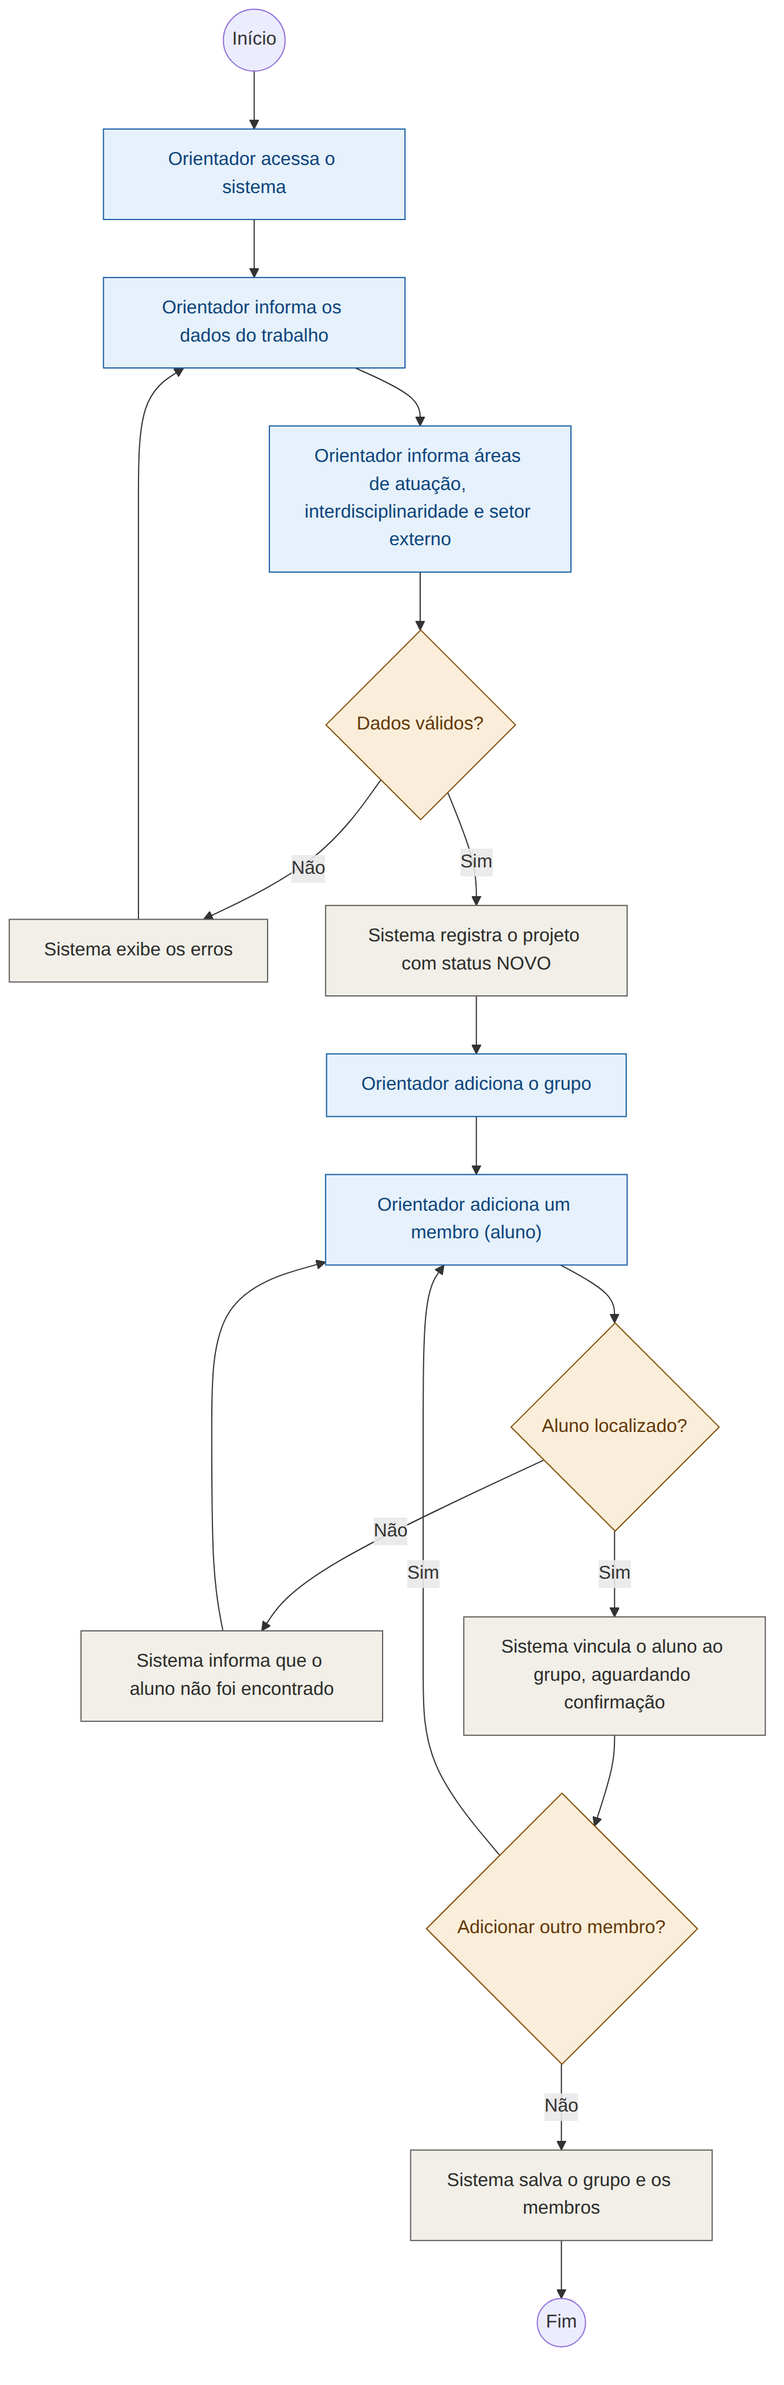
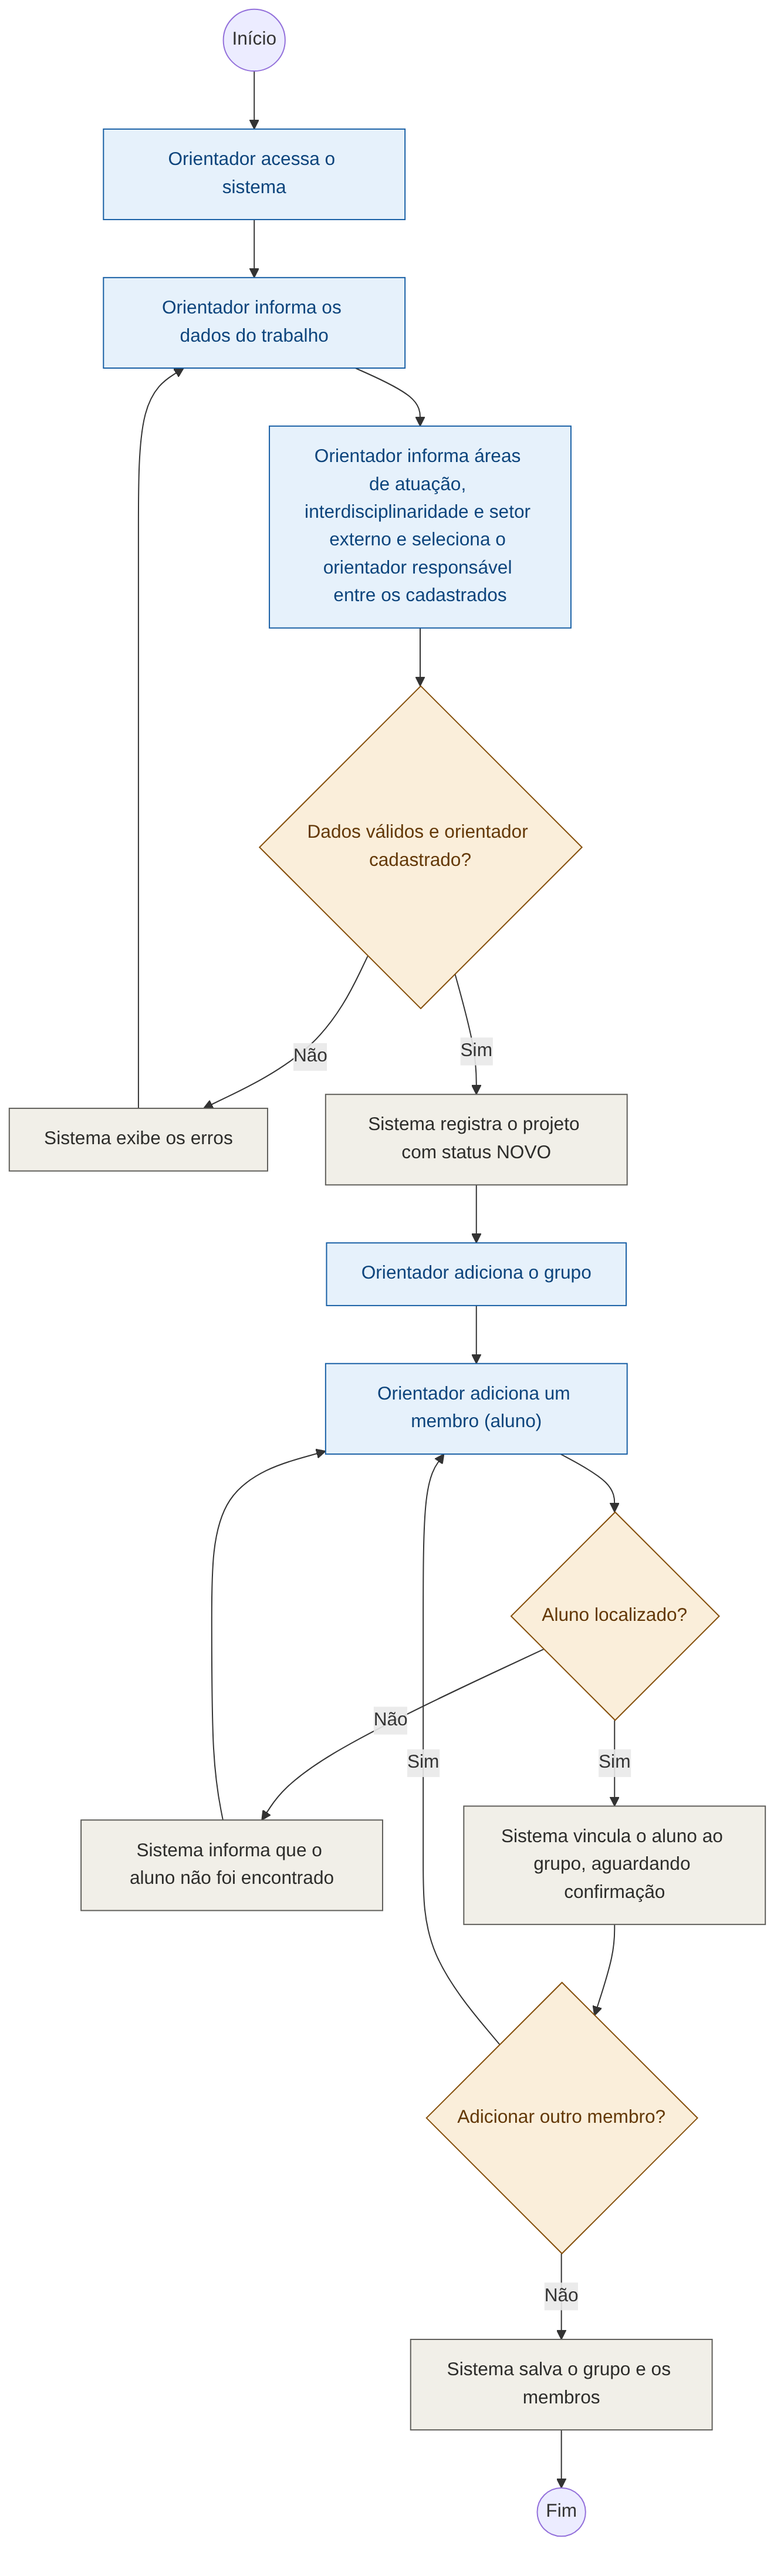
Add files via upload

diff --git a/documentos/atividades/diagramas-atividade.md b/documentos/atividades/diagramas-atividade.md
@@ -10,8 +10,8 @@ Ator: Orientador. Imagem: [01-registrar-trabalho-grupo-membros.png](01-registrar
 flowchart TD
   ini(("Início")) --> a1["Orientador acessa o sistema"]
   a1 --> a2["Orientador informa os dados do trabalho"]
-  a2 --> a3["Orientador informa áreas de atuação, interdisciplinaridade e setor externo"]
-  a3 --> d1{"Dados válidos?"}
+  a2 --> a3["Orientador informa áreas de atuação, interdisciplinaridade e setor externo e seleciona o orientador responsável entre os cadastrados"]
+  a3 --> d1{"Dados válidos e orientador cadastrado?"}
   d1 -- Não --> s1["Sistema exibe os erros"]
   s1 --> a2
   d1 -- Sim --> s2["Sistema registra o projeto com status NOVO"]
@@ -220,18 +220,18 @@ flowchart TD
 
 ## 8. Escolher a exibição do nome (Meu perfil)
 
-Ator: Aluno. Imagem: [08-exibicao-nome-perfil.png](08-exibicao-nome-perfil.png)
+Ator: qualquer usuário logado (Aluno, Orientador, Coordenador ou Administrador). Imagem: [08-exibicao-nome-perfil.png](08-exibicao-nome-perfil.png)
 
 ```mermaid
 flowchart TD
-  ini(("Início")) --> a1["Aluno acessa Meu perfil"]
+  ini(("Início")) --> a1["Usuário logado acessa Meu perfil"]
   a1 --> s1["Sistema mostra nome completo e RA, ambos sem edição"]
-  s1 --> a2["Aluno escolhe: nome completo ou primeiro nome e último sobrenome"]
-  a2 --> a3["Aluno salva a preferência"]
+  s1 --> a2["Usuário escolhe: nome completo ou primeiro nome e último sobrenome"]
+  a2 --> a3["Usuário salva a preferência"]
   a3 --> d1{"Opção válida?"}
   d1 -- Não --> e1["Sistema recusa a alteração"]
   d1 -- Sim --> s2["Sistema grava somente a preferência de exibição"]
-  s2 --> s3["Público e outros alunos passam a ver o nome conforme a preferência; gestão continua vendo o nome completo"]
+  s2 --> s3["Todos os perfis passam a ver o nome conforme a preferência (aluno, orientador responsável, votos do Conselho e parecer de Ética); nome completo e RA ficam só nos formulários de criar e editar projeto, na exportação CSV e em Gerenciar Contas"]
   s3 --> fim((Fim))
   e1 --> fim
   classDef ator fill:#E6F1FB,stroke:#185FA5,color:#0C447C
@@ -251,7 +251,7 @@ Ator: Todos os atores. Imagem: [09-consultar-projetos-historico.png](09-consulta
 ```mermaid
 flowchart TD
   ini(("Início")) --> a1["Ator acessa Consultar Projetos, Meus projetos ou Histórico"]
-  a1 --> a2["Ator informa filtros: projeto, aluno, RA, situação e período"]
+  a1 --> a2["Ator informa filtros: projeto, aluno, RA (somente gestão), situação e período"]
   a2 --> d1{"Ator tem perfil de gestão?"}
   d1 -- Não --> d2{"Ator é aluno?"}
   d2 -- Sim --> s1["Sistema considera os projetos publicados e os vinculados ao aluno"]
@@ -264,16 +264,13 @@ flowchart TD
   d3 -- Sim --> s5["Sistema inclui os Finalizados no resultado"]
   s4 --> s6["Sistema ordena por data de criação, do mais recente ao mais antigo"]
   s5 --> s6
-  s6 --> d4{"Ator tem perfil de gestão?"}
-  d4 -- Sim --> s7["Sistema exibe nome completo e RA dos alunos"]
-  d4 -- Não --> s8["Sistema omite o RA e exibe o nome conforme a preferência de cada aluno"]
+  s6 --> s7["Sistema exibe, para todos os perfis, o nome conforme a preferência de cada pessoa e sem RA"]
   s7 --> fim((Fim))
-  s8 --> fim
   classDef ator fill:#E6F1FB,stroke:#185FA5,color:#0C447C
   classDef sis fill:#F1EFE8,stroke:#5F5E5A,color:#2C2C2A
   classDef dec fill:#FAEEDA,stroke:#854F0B,color:#633806
   classDef err fill:#FCEBEB,stroke:#A32D2D,color:#791F1F
   class a1,a2 ator
-  class s1,s2,s3,s4,s5,s6,s7,s8 sis
-  class d1,d2,d3,d4 dec
+  class s1,s2,s3,s4,s5,s6,s7 sis
+  class d1,d2,d3 dec
 ```
